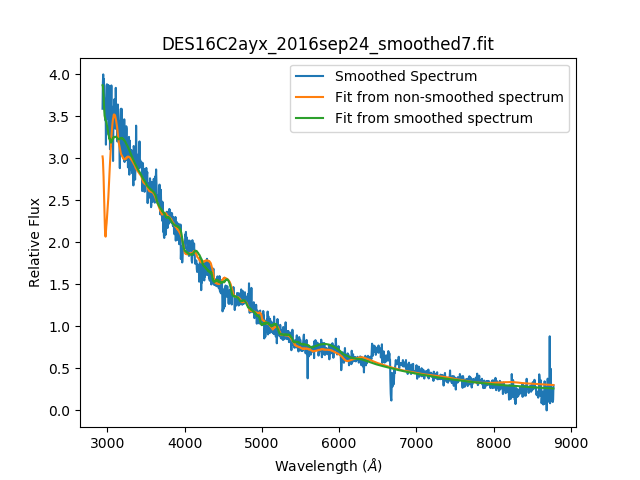
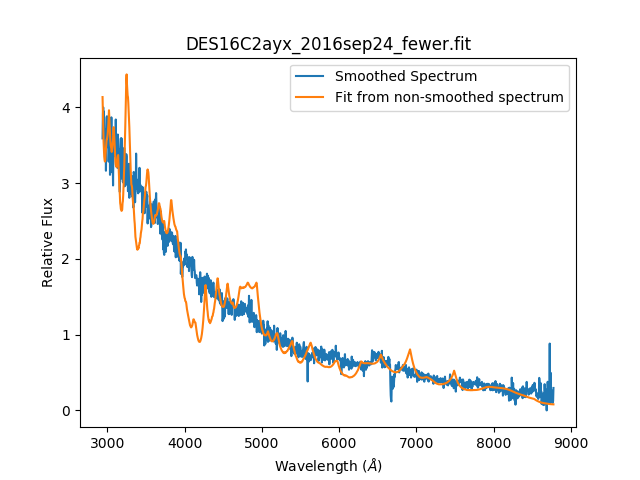
Updated to read_synapps solutions and print parameters to be copied and pasted back in to the control (.yaml) file

diff --git a/read_synapps_solution.py b/read_synapps_solution.py
@@ -1,20 +1,33 @@
 import numpy as np
 import csv
 
-SETUP_PARAMETERS = ["a0", "a1", "a2", "v_phot", "v_out", "t_phot"]
+SETUP_PARAMETERS = ["a0", "a1", "a2", "v_phot", "v_outer", "t_phot"]
 OPACITY_PROFILE_PARAMETERS = ["log_tau", "v_min", "v_max", "aux", "temp"]
-LIST_OF_IONS = [601,    800,   1100,   1201,   1401,   1402,   1601,   2001,   2601,   2602,   2701,   2801]
-X = "[ 5.44e-01 -3.99e-01  1.08e+00  1.29e+01  3.00e+01  9.23e+00  1.15e+00 -1.33e+00 -1.52e-01  5.78e-01  4.00e+00  1.07e+00  7.55e-01  2.24e+00 -2.86e+00  2.03e+00 -1.20e+00 -2.55e+00  1.29e+01  1.29e+01  1.29e+01  1.29e+01  1.29e+01  1.29e+01  1.29e+01  1.29e+01  1.29e+01  1.29e+01  1.29e+01  1.29e+01  3.00e+01  3.00e+01  3.00e+01  3.00e+01  3.00e+01  3.00e+01  3.00e+01  3.00e+01  3.00e+01  3.00e+01  3.00e+01  3.00e+01  7.49e-01  9.20e+00  6.05e+00  1.12e+00  3.50e-01  1.07e+00  1.52e+00  4.54e-01  6.10e-01  5.30e-01  2.39e-01  4.75e-01  3.50e+01  4.20e+00  2.09e+00  2.00e+00  8.13e+00  1.38e+01  1.40e+01  2.54e+01  1.00e+01  2.26e+01  8.58e+00  1.21e+01 ]"
+#LIST_OF_IONS = [601,    800,   1100,   1201,   1401,   1402,   1601,   2001,   2601,   2602,   2701,   2801]
+X_FIRST = "[ 5.46e-01 -3.60e-01  1.05e+00  1.29e+01  3.00e+01  9.40e+00  1.48e+00 -1.43e+00 -1.52e-01 -7.72e-01  3.98e+00  1.50e+00  6.20e-01  2.23e+00 -2.14e+00  1.97e+00 -1.20e+00 -2.55e+00  1.29e+01  1.29e+01  1.29e+01  1.29e+01  1.29e+01  1.29e+01  1.29e+01  1.29e+01  1.29e+01  1.29e+01  1.29e+01  1.29e+01  3.00e+01  3.00e+01  3.00e+01  3.00e+01  3.00e+01  3.00e+01  3.00e+01  3.00e+01  3.00e+01  3.00e+01  3.00e+01  3.00e+01  6.29e-01  1.00e+01  6.25e+00  4.70e+00  3.50e-01  8.75e-01  1.69e+00  4.34e-01  1.47e+00  5.30e-01  2.39e-01  4.25e-01  3.50e+01  4.16e+00  2.01e+00  2.00e+00  8.24e+00  1.10e+01  1.46e+01  2.80e+01  8.70e+00  2.26e+01  8.58e+00  1.21e+01 ]"
+X_1 = "[ 5.46e-01 -3.30e-01  9.70e-01  1.30e+01  3.11e+01  9.54e+00  1.71e+00 -1.49e+00 -1.70e-01 -9.11e-01  4.00e+00  1.51e+00  5.40e-01  2.23e+00 -2.14e+00  1.90e+00 -1.20e+00 -2.55e+00  1.30e+01  1.30e+01  1.30e+01  1.30e+01  1.30e+01  1.30e+01  1.30e+01  1.30e+01  1.30e+01  1.30e+01  1.30e+01  1.30e+01  3.11e+01  3.07e+01  2.75e+01  3.10e+01  3.11e+01  3.11e+01  3.11e+01  3.11e+01  3.11e+01  3.07e+01  3.06e+01  3.04e+01  5.70e-01  1.00e+01  6.97e+00  6.08e+00  3.50e-01  8.40e-01  1.80e+00  1.80e-01  1.00e+01  5.30e-01  2.40e-01  4.10e-01  4.00e+01  4.12e+00  2.01e+00  2.00e+00  8.27e+00  6.55e+00  1.44e+01  2.80e+01  6.58e+00  2.25e+01  8.58e+00  1.21e+01 ]"
+LIST_OF_IONS_ALL = [100,   200,   201,   300,   301,   400,   401,   402,   500,   501,   502,   503,   600,   601,   602,   603,   700,   701,   702,   703,   704,   800,   801,   802,   803,   804,   900,   901,   1000,   1100,   1200,   1201,   1300,   1301,   1302,   1400,   1401,   1402,   1403,   1500,   1501,   1502,   1600,   1601,   1602,   1700,   1800,   1801,   1900,   1901,   2000,   2001,   2100,   2101,   2202,   2300,   2301,   2302,   2400,   2401,   2402,   2500,   2501,   2502,   2600,   2601,   2602,   2603,   2700,   2701,   2702,   2703,   2800,   2801,   2802,   2803,   2901,   3002,   3801,   5600,   5601 ]
+X_ALL = "[ 1.00e+01 -1.00e+01  1.00e+01  1.40e+01  3.00e+01  1.93e+01  1.00e+00  1.00e+00  3.00e+00  1.00e+00 -1.00e+00  1.00e+00  1.00e+00  1.90e-01 -1.00e+00  9.40e-01  1.00e+00  1.00e+00  1.00e+00  1.71e+00 -1.00e+00  1.00e+00  0.00e+00  0.00e+00  1.00e+00  1.00e+00  1.00e+00 -1.49e+00  1.00e+00  1.00e+00  1.00e+00  1.00e+00  1.00e+00  1.00e+00 -2.54e+00 -2.42e+00  1.00e+00 -9.10e-01  0.00e+00  1.00e+00  1.00e+00  1.00e+00  4.00e+00  1.51e+00  1.00e+00  0.00e+00 -1.00e+00  1.00e+00  1.00e+00 -4.60e-01  0.00e+00  1.00e+00  5.00e-01  4.20e-01  1.00e+00  2.00e+00  1.00e+00  2.23e+00  1.00e+00  1.00e+00  1.00e+00 -1.00e+00  1.00e+00 -2.00e+00  1.00e+00  1.00e+00 -1.00e+00  1.00e+00  0.00e+00  1.00e+00  0.00e+00 -3.00e+00 -1.00e-01  1.00e+00 -1.00e+00 -1.20e+00 -1.00e+00  1.00e+00  1.00e+00 -2.55e+00  1.00e+00  0.00e+00 -1.00e+00  1.00e+00  2.76e+00 -1.00e+00  1.00e+00  1.40e+01  1.40e+01  1.40e+01  1.40e+01  1.40e+01  1.40e+01  1.40e+01  1.40e+01  1.40e+01  1.40e+01  1.40e+01  1.40e+01  1.40e+01  1.40e+01  1.40e+01  1.40e+01  1.40e+01  1.40e+01  1.40e+01  1.40e+01  1.40e+01  1.40e+01  1.40e+01  1.40e+01  1.40e+01  1.40e+01  1.40e+01  1.40e+01  1.40e+01  1.40e+01  1.40e+01  1.40e+01  1.40e+01  1.40e+01  1.40e+01  1.40e+01  1.40e+01  1.40e+01  1.40e+01  1.40e+01  1.40e+01  1.40e+01  1.40e+01  1.40e+01  1.40e+01  1.40e+01  1.40e+01  1.40e+01  1.40e+01  1.40e+01  1.40e+01  1.40e+01  1.40e+01  1.40e+01  1.40e+01  1.40e+01  1.40e+01  1.40e+01  1.40e+01  1.40e+01  1.40e+01  1.40e+01  1.40e+01  1.40e+01  1.40e+01  1.40e+01  1.40e+01  1.40e+01  1.40e+01  1.40e+01  1.40e+01  1.40e+01  1.40e+01  1.40e+01  1.40e+01  1.40e+01  1.40e+01  1.40e+01  1.40e+01  1.40e+01  1.40e+01  3.00e+01  3.00e+01  2.42e+01  3.00e+01  3.00e+01  3.00e+01  3.00e+01  3.00e+01  3.00e+01  3.00e+01  3.00e+01  3.00e+01  3.00e+01  3.00e+01  3.00e+01  3.00e+01  3.00e+01  3.00e+01  3.00e+01  3.00e+01  3.00e+01  3.00e+01  3.00e+01  3.00e+01  3.00e+01  3.00e+01  3.00e+01  3.00e+01  3.00e+01  3.00e+01  3.00e+01  3.00e+01  3.00e+01  3.00e+01  3.00e+01  3.00e+01  3.00e+01  3.00e+01  3.00e+01  3.00e+01  3.00e+01  3.00e+01  3.00e+01  3.00e+01  3.00e+01  3.00e+01  3.00e+01  3.00e+01  3.00e+01  3.00e+01  3.00e+01  3.00e+01  3.00e+01  3.00e+01  3.00e+01  3.00e+01  3.00e+01  3.00e+01  3.00e+01  3.00e+01  3.00e+01  3.00e+01  3.00e+01  3.00e+01  3.00e+01  3.00e+01  3.00e+01  3.00e+01  3.00e+01  2.94e+01  3.00e+01  3.00e+01  3.00e+01  3.00e+01  3.00e+01  3.00e+01  3.00e+01  3.00e+01  3.00e+01  3.00e+01  3.00e+01  1.00e+00  1.00e-01  6.66e+00  5.00e-01  1.00e+00  1.00e-01  1.00e+00  6.20e-01  5.00e-01  6.20e-01  1.00e+00  1.00e-01  5.00e-01  1.00e-01  1.00e-01  1.00e-01  1.00e+00  1.00e-01  1.00e+00  1.00e-01  1.00e+00  1.00e+01  1.00e+00  1.00e+00  1.00e-01  1.00e-01  5.70e-01  1.00e+00  6.97e+00  6.97e+00  1.00e-01  6.08e+00  7.20e-01  4.50e-01  1.00e-01  1.00e-01  1.00e-01  1.00e-01  1.00e+00  1.00e-01  8.50e-01  1.00e-01  9.30e-01  3.00e-01  5.00e-01  1.00e-01  1.00e+00  1.28e+00  1.00e+00  1.00e-01  1.00e-01  1.80e-01  1.00e-01  1.00e-01  1.00e-01  5.00e-01  1.00e-01  1.00e-01  1.00e-01  1.00e-01  1.00e-01  1.00e-01  1.00e-01  1.00e-01  1.00e-01  9.40e-01  1.00e-01  1.00e-01  1.00e-01  2.40e-01  1.00e-01  1.00e-01  1.00e-01  4.10e-01  1.00e-01  1.00e-01  1.00e-01  1.00e-01  9.60e-01  5.00e-01  1.00e-01  1.00e+01  1.00e+01  1.10e+01  1.00e+01  1.00e+01  1.00e+01  1.00e+01  1.00e+01  1.00e+01  1.00e+01  1.00e+01  1.00e+01  1.00e+01  4.00e+01  1.00e+01  1.00e+01  1.00e+01  1.00e+01  1.00e+01  1.00e+01  1.00e+01  5.00e+00  1.00e+01  1.00e+01  1.00e+01  1.00e+01  1.00e+01  1.00e+01  1.00e+01  5.00e+00  1.00e+01  5.00e+00  1.00e+01  1.00e+01  1.00e+01  1.00e+01  8.27e+00  6.55e+00  1.00e+01  1.00e+01  1.00e+01  1.00e+01  1.00e+01  1.44e+01  1.00e+01  1.00e+01  1.00e+01  7.96e+00  1.00e+01  1.00e+01  1.00e+01  2.80e+01  1.00e+01  1.00e+01  1.00e+01  1.00e+01  1.00e+01  1.10e+01  1.00e+01  1.00e+01  1.00e+01  1.00e+01  1.00e+01  1.00e+01  1.00e+01  1.36e+01  2.25e+01  1.00e+01  9.00e+00  8.58e+00  1.00e+01  1.00e+01  1.00e+01  1.21e+01  1.00e+01  1.00e+01  1.00e+01  1.00e+01  1.00e+01  1.00e+01  1.00e+01 ]"
+ACTIVE_ALL = "[     Yes,    Yes,    Yes,    Yes,    Yes,    Yes,    Yes,    Yes,    Yes,    Yes,    Yes,    Yes,    Yes,    Yes,    Yes,    Yes,    Yes,    Yes,    Yes,    Yes,    Yes,    Yes,    Yes,    Yes,    Yes,    Yes,    Yes,    Yes,    Yes,    Yes,    Yes,    Yes,    Yes,    Yes,    Yes,    Yes,    Yes,    Yes,    Yes,    Yes,    Yes,    Yes,    Yes,    Yes,    Yes,    Yes,    Yes,    Yes,    Yes,    Yes,    Yes,    Yes,    Yes,    Yes,    Yes,    Yes,    Yes,    Yes,    Yes,    Yes,    Yes,    Yes,    Yes,    Yes,    Yes,    Yes,    Yes,    Yes,    Yes,    Yes,    Yes,    Yes,    Yes,    Yes,    Yes,    Yes,    Yes,    Yes,    Yes,    Yes,    Yes ]"
+
+LIST_OF_IONS = [100,   200,   201,   300,   301,   400,   401,   402,   500,   501,   502,   503,   600,   601,   602,   603,   700,   701,   702,   703,   704,   800,   801,   802,   803,   804,   900,   901,   1000,   1100,   1200,   1201,   1300,   1301,   1302,   1400,   1401,   1402,   1403,   1500,   1501,   1502,   1600,   1601,   1602,   1700,   1800,   1801,   1900,   1901,   2000,   2001,   2100,   2101,   2202,   2300,   2301,   2302,   2400,   2401,   2402,   2500,   2501,   2502,   2600,   2601,   2602,   2603,   2700,   2701,   2702,   2703,   2800,   2801,   2802,   2803,   2901,   3002,   3801,   5600,   5601 ]
+X = "[ 5.40e+00 -6.96e+00  3.99e+00  1.42e+01  2.99e+01  2.16e+01  6.92e-01 -3.46e-01  4.00e+00  4.00e+00  1.49e+00  1.06e+00  3.63e+00  3.05e+00  3.25e+00 -9.37e-01 -2.58e+00  4.00e+00 -1.39e+00 -1.37e+00  4.00e+00  1.11e+00  4.00e+00  2.03e+00  2.00e+00  1.00e+00 -2.50e+00  9.00e-01 -3.00e+00 -3.00e+00  1.42e+01  1.42e+01  1.42e+01  1.42e+01  1.42e+01  1.42e+01  1.42e+01  1.42e+01  1.42e+01  1.42e+01  1.42e+01  1.42e+01  1.42e+01  1.42e+01  1.42e+01  1.42e+01  1.42e+01  1.42e+01  1.42e+01  1.42e+01  1.42e+01  1.42e+01  1.42e+01  1.42e+01  2.99e+01  2.88e+01  2.92e+01  2.99e+01  2.99e+01  2.99e+01  2.99e+01  2.80e+01  2.88e+01  2.99e+01  2.99e+01  2.78e+01  2.45e+01  2.97e+01  2.99e+01  2.99e+01  2.99e+01  2.65e+01  2.99e+01  2.94e+01  2.88e+01  2.80e+01  2.99e+01  2.99e+01  1.00e-01  1.00e-01  8.16e+00  5.00e-01  1.00e+00  2.37e+00  2.00e+00  6.00e-01  1.10e+00  9.75e+00  6.97e+00  1.00e+01  2.08e+00  2.30e+00  1.00e-01  1.00e-01  1.10e+00  4.60e+00  1.10e+00  1.00e-01  1.10e+00  1.00e-01  1.24e+00  4.10e-01  1.00e+01  9.50e+00  1.15e+01  1.00e+01  9.00e+00  5.00e+00  1.35e+01  9.75e+00  3.85e+01  6.00e+00  1.00e+01  7.00e+00  6.25e+00  1.42e+01  1.03e+01  2.72e+01  1.15e+01  6.00e+00  1.15e+01  1.05e+01  1.24e+01  2.50e+01  9.58e+00  1.21e+01 ]"
+ACTIVE = "[     Yes,    Yes,    Yes,    Yes,     No,     No,    Yes,     No,     No,    Yes,    Yes,    Yes,     No,    Yes,     No,     No,     No,     No,     No,     No,     No,    Yes,     No,     No,     No,     No,     No,     No,    Yes,    Yes,     No,    Yes,     No,     No,     No,     No,    Yes,    Yes,     No,     No,     No,     No,     No,    Yes,     No,     No,     No,     No,     No,     No,    Yes,    Yes,    Yes,    Yes,     No,     No,     No,     No,     No,     No,     No,    Yes,     No,     No,    Yes,    Yes,    Yes,     No,     No,    Yes,     No,     No,     No,    Yes,     No,     No,     No,     No,     No,     No,     No ]"
 
 
-def read_synapps_solution(xStr):
+def read_synapps_solution(xStr, activeStr):
     """ x is a string of a list without spaces instead of commas separating floating point values """
 
     setupInfo = {}
     ionInfo = {}
-    numOfIons = len(LIST_OF_IONS)
+    ionsListReduced = []
     numOfSetupParams = len(SETUP_PARAMETERS)
     numOfOpacityParams = len(OPACITY_PROFILE_PARAMETERS)
+    activeArray = activeStr.strip('[').strip(']').replace(',','').split()
+    for i in range(len(activeArray)):
+        if activeArray[i] == "Yes":
+            ionsListReduced.append(LIST_OF_IONS[i])
+    numOfIons = len(ionsListReduced)
 
     xArray = xStr.strip('[').strip(']').split()
     for i in range(numOfSetupParams):
@@ -22,7 +35,7 @@ def read_synapps_solution(xStr):
 
     ionVals = xArray[numOfSetupParams:]
     for i in range(numOfIons):
-        ionName = LIST_OF_IONS[i]
+        ionName = ionsListReduced[i]
         ionInfo[ionName] = {}
         for j in range(numOfOpacityParams):
             param = OPACITY_PROFILE_PARAMETERS[j]
@@ -32,8 +45,8 @@ def read_synapps_solution(xStr):
     return setupInfo, ionInfo
 
 
-def print_and_save_solutions(saveFilename, xStr):
-    setupInfo, ionInfo = read_synapps_solution(xStr)
+def print_and_save_solutions(saveFilename, xStr, activeStr):
+    setupInfo, ionInfo = read_synapps_solution(xStr, activeStr)
     print(setupInfo)
     print(ionInfo)
 
@@ -48,11 +61,55 @@ def print_and_save_solutions(saveFilename, xStr):
     writer.writerow([" "] + OPACITY_PROFILE_PARAMETERS)
     for key, value in ionInfo.items():
         ln = [key]
-        for ik, iv in value. items():
+        for ik, iv in value.items():
             iv = float(iv)
             ln.append(iv)
         writer.writerow(ln)
         print(ln)
 
+
+def yaml_entries(xStr, activeStr):
+    numOfOpacityParams = len(OPACITY_PROFILE_PARAMETERS)
+    numOfSetupParams = len(SETUP_PARAMETERS)
+    ionsListReduced = []
+    activeArray = activeStr.strip('[').strip(']').replace(',','').split()
+    for i in range(len(activeArray)):
+        if activeArray[i] == "Yes":
+            ionsListReduced.append(LIST_OF_IONS[i])
+    numOfIons = len(ionsListReduced)
+
+    xArrayAll = X_ALL.strip('[').strip(']').split()
+    ionValsAll = xArrayAll[numOfSetupParams:]
+    xArray = xStr.strip('[').strip(']').split()
+    setupParams = xArray[:numOfSetupParams]
+    ionVals = xArray[numOfSetupParams:]
+
+    print("\n\nSETUP_PARAMS")
+    print(str(["{0:>6}".format(p) for p in SETUP_PARAMETERS]).replace("'", ""))
+    print(str(["{0:>6}".format(float(p)) for p in setupParams]).replace("'", ""))
+
+    print("\n\nION_NAMES")
+    print(str(["{0:>6}".format(v) for v in LIST_OF_IONS]).replace("'", ""))
+    print("ACTIVE")
+    print(str(["{0:>6}".format(v) for v in activeArray]).replace("'", ""))
+    for i in range(numOfOpacityParams):
+        row = []
+        print(OPACITY_PROFILE_PARAMETERS[i])
+        k = 0
+        for j in range(len(LIST_OF_IONS)):
+            if activeArray[j] == "Yes":
+                index = k + (i * numOfIons)
+                row.append(float(ionVals[index]))
+                k += 1
+            elif activeArray[j] == "No":
+                index = j + (i * numOfIons)
+                row.append(float(ionValsAll[index]))
+
+        print(str(["{0:>6}".format("{0:0.2f}".format(v)) for v in row]).replace("'", ""))
+
+
 if __name__ == "__main__":
-    print_and_save_solutions("DES16C2ayx_solved_parameters.csv", X)
+    print_and_save_solutions("DES16C2ayx_solved_parameters_all.csv", X_ALL, ACTIVE_ALL)
+    print_and_save_solutions("DES16C2ayx_solved_parameters_fewer.csv", X, ACTIVE)
+
+    yaml_entries(X, ACTIVE)

diff --git a/plot_spectrum.py b/plot_spectrum.py
@@ -37,8 +37,8 @@ if __name__ == "__main__":
 
     plt.figure()
     plot_spectrum("DES16C2ayx_2016sep24_rest_frame.txt", label="Smoothed Spectrum")
-    plot_spectrum("DES16C2ayx_2016sep24.fit", label="Fit from non-smoothed spectrum")
-    plot_spectrum("DES16C2ayx_2016sep24_smoothed7.fit", label="Fit from smoothed spectrum")
+    plot_spectrum("DES16C2ayx_2016sep24_fewer.fit", label="Fit from non-smoothed spectrum")
+    # plot_spectrum("DES16C2ayx_2016sep24_smoothed7.fit", label="Fit from smoothed spectrum")
     # plot_spectrum("DES16C2ayx_2016sep24.txt")
     plt.savefig("DES16C2ayx_2016sep24.png")
 
